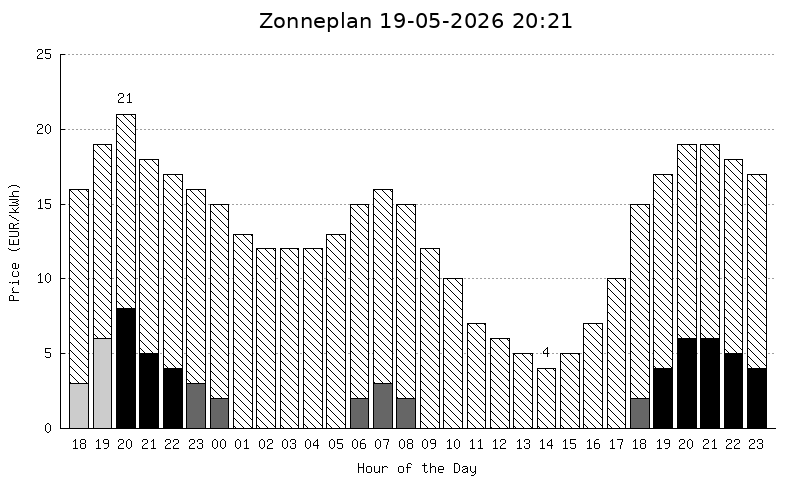
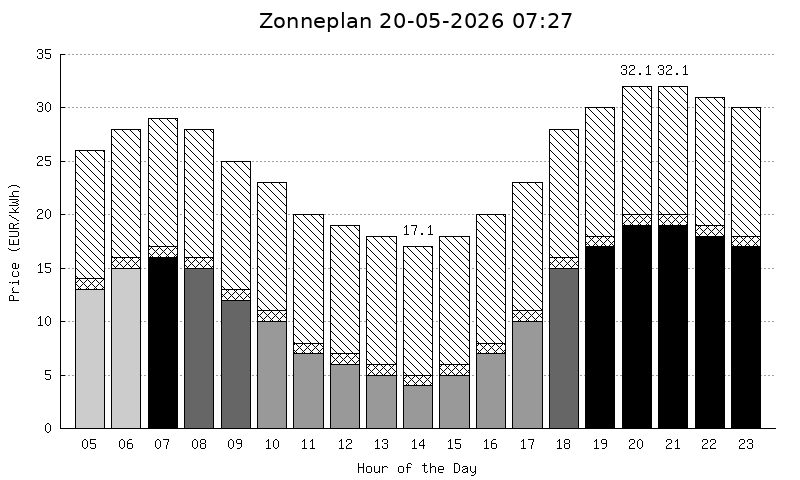
Merge stale branch pr #6 / #7 (#8)

Pull request: Merge stale branch pr #6 / #7

diff --git a/spec/zonneplan_spec.rb b/spec/zonneplan_spec.rb
@@ -40,6 +40,13 @@ RSpec.describe Zonneplan do
     end
   end
 
+  describe "HANDLING_FEE_RAW constant" do
+    it "is in the same raw scale as Zonneplan handling fee (~2 ct/kWh)" do
+      expect(Zonneplan::HANDLING_FEE_RAW).to be_a(Integer)
+      expect(Zonneplan.display_price(Zonneplan::HANDLING_FEE_RAW)).to be_between(1, 5)
+    end
+  end
+
   describe ".classify_pricing_profile" do
     let(:prices) { [0.10, 0.15, 0.20, 0.25, 0.30, 0.35, 0.40, 0.45] }
 
@@ -66,38 +73,61 @@ RSpec.describe Zonneplan do
   describe ".generate_data_file" do
     require "tempfile"
 
-    it "writes HOUR PRICE_EX_TAX TAX_AMOUNT COLOR [BOUNDARY] rows" do
+    it "writes HOUR MARKET HANDLING TAX COLOR [BOUNDARY] rows" do
       hours = [
         { "dateTime" => (Time.now + 3600).iso8601,
-          "priceTotalTaxIncluded" => 3_000_000,
+          "priceTotalTaxIncluded" => 2_636_093,
+          "marketPrice" => 997_900,
+          "priceInclHandlingVat" => 1_407_459,
           "priceEnergyTaxes" => 1_228_634,
           "pricingProfile" => "normal" }
       ]
       Tempfile.create("hours.dat") do |f|
         Zonneplan.generate_data_file(hours, f.path)
         tokens = File.read(f.path).lines.first.strip.split(/\s+/)
-        expect(tokens.length).to be_between(4, 5)
-        hour, price_ex, tax_amt, color, * = tokens
+        expect(tokens.length).to be_between(5, 6)
+        hour, market, handling, tax, color, * = tokens
         expect(hour).to match(/\A\d{2}\z/)
-        expect(price_ex.to_i + tax_amt.to_i).to be_within(1).of(30)
-        expect(tax_amt.to_i).to eq(12)
+        expect(market.to_i + handling.to_i + tax.to_i).to be_within(1).of(26)
+        expect(tax.to_i).to eq(12)
+        expect(handling.to_i).to be_within(1).of(2)
         expect(color).to start_with("0x")
       end
     end
 
-    it "clamps tax to total when total < energy tax" do
+    it "falls back to priceHandlingFee constant when raw fields missing" do
+      hours = [
+        { "dateTime" => (Time.now + 3600).iso8601,
+          "priceTotalTaxIncluded" => 2_708_000,
+          "priceHandlingFee" => 200_000,
+          "priceEnergyTaxes" => 1_318_000,
+          "pricingProfile" => "normal" }
+      ]
+      Tempfile.create("hours.dat") do |f|
+        Zonneplan.generate_data_file(hours, f.path)
+        tokens = File.read(f.path).lines.first.strip.split(/\s+/)
+        _, market, handling, tax, _ = tokens
+        expect(handling.to_i).to eq(2)
+        expect(tax.to_i).to eq(13)
+        expect(market.to_i).to be_within(1).of(12)
+      end
+    end
+
+    it "clamps segments to total when total < tax + handling" do
       hours = [
         { "dateTime" => (Time.now + 3600).iso8601,
           "priceTotalTaxIncluded" => 500_000,
-          "priceEnergyTaxes" => 1_228_634,
+          "priceHandlingFee" => 200_000,
+          "priceEnergyTaxes" => 1_318_000,
           "pricingProfile" => "low" }
       ]
       Tempfile.create("hours.dat") do |f|
         Zonneplan.generate_data_file(hours, f.path)
         tokens = File.read(f.path).lines.first.strip.split(/\s+/)
-        _, price_ex, tax_amt, _ = tokens
-        expect(price_ex.to_i).to be >= 0
-        expect(price_ex.to_i + tax_amt.to_i).to be_within(1).of(5)
+        _, market, handling, tax, _ = tokens
+        expect(market.to_i).to be >= 0
+        expect(handling.to_i).to be >= 0
+        expect(market.to_i + handling.to_i + tax.to_i).to be_within(1).of(5)
       end
     end
   end

diff --git a/lib/zonneplan.rb b/lib/zonneplan.rb
@@ -6,7 +6,9 @@ require "time"
 module Zonneplan
   PRICE_DIVISOR = 100_000
   ENERGYZERO_MULTIPLIER = 10_000_000
-  ENERGY_TAX_RAW = 1_318_000
+  BTW_RATE = 0.21
+  ENERGY_TAX_RAW = 1_228_634
+  HANDLING_FEE_RAW = 80_100
 
   module_function
 
@@ -77,9 +79,11 @@ module Zonneplan
 
     hours = prices.map do |item|
       price_eur = item["price"]
+      market_with_btw = convert_energyzero_price(price_eur)
       {
         "dateTime" => item["readingDate"],
-        "priceTotalTaxIncluded" => convert_energyzero_price(price_eur),
+        "priceTotalTaxIncluded" => market_with_btw + HANDLING_FEE_RAW + ENERGY_TAX_RAW,
+        "priceHandlingFee" => HANDLING_FEE_RAW,
         "priceEnergyTaxes" => ENERGY_TAX_RAW,
         "pricingProfile" => classify_pricing_profile(price_eur, all_price_values)
       }
@@ -112,15 +116,23 @@ module Zonneplan
         day_hour = price_date.strftime("%H")
         total_raw = item["priceTotalTaxIncluded"]
         tax_raw = [item["priceEnergyTaxes"].to_i, total_raw].min
-        base_raw = total_raw - tax_raw
-        price_ex_tax = display_price(base_raw)
+        handling_raw = if item["priceInclHandlingVat"] && item["marketPrice"]
+          market_with_btw = (item["marketPrice"] * (1.0 + BTW_RATE)).round
+          [item["priceInclHandlingVat"] - market_with_btw, 0].max
+        else
+          item["priceHandlingFee"].to_i
+        end
+        handling_raw = [handling_raw, total_raw - tax_raw].min
+        market_raw = [total_raw - tax_raw - handling_raw, 0].max
+        market_price = display_price(market_raw)
+        handling_amount = display_price(handling_raw)
         tax_amount = display_price(tax_raw)
         total_price = display_price(total_raw)
         color = (now - 3600 > price_date) ? colors["stale"] : colors[item["pricingProfile"]]
-        if (price_date - now) > -3600
-          boundary_price = total_price if min_price == total_price.round(0) || max_price == total_price.round(0)
+        if (price_date - now) > -3600 && (min_price == total_price.round(0) || max_price == total_price.round(0))
+          boundary_price = format("%.1f", total_raw.to_f / PRICE_DIVISOR)
         end
-        f.puts "#{day_hour} #{price_ex_tax} #{tax_amount} #{color} #{boundary_price}"
+        f.puts "#{day_hour} #{market_price} #{handling_amount} #{tax_amount} #{color} #{boundary_price}"
       end
 
       puts "Data successfully written to #{dat_file}."